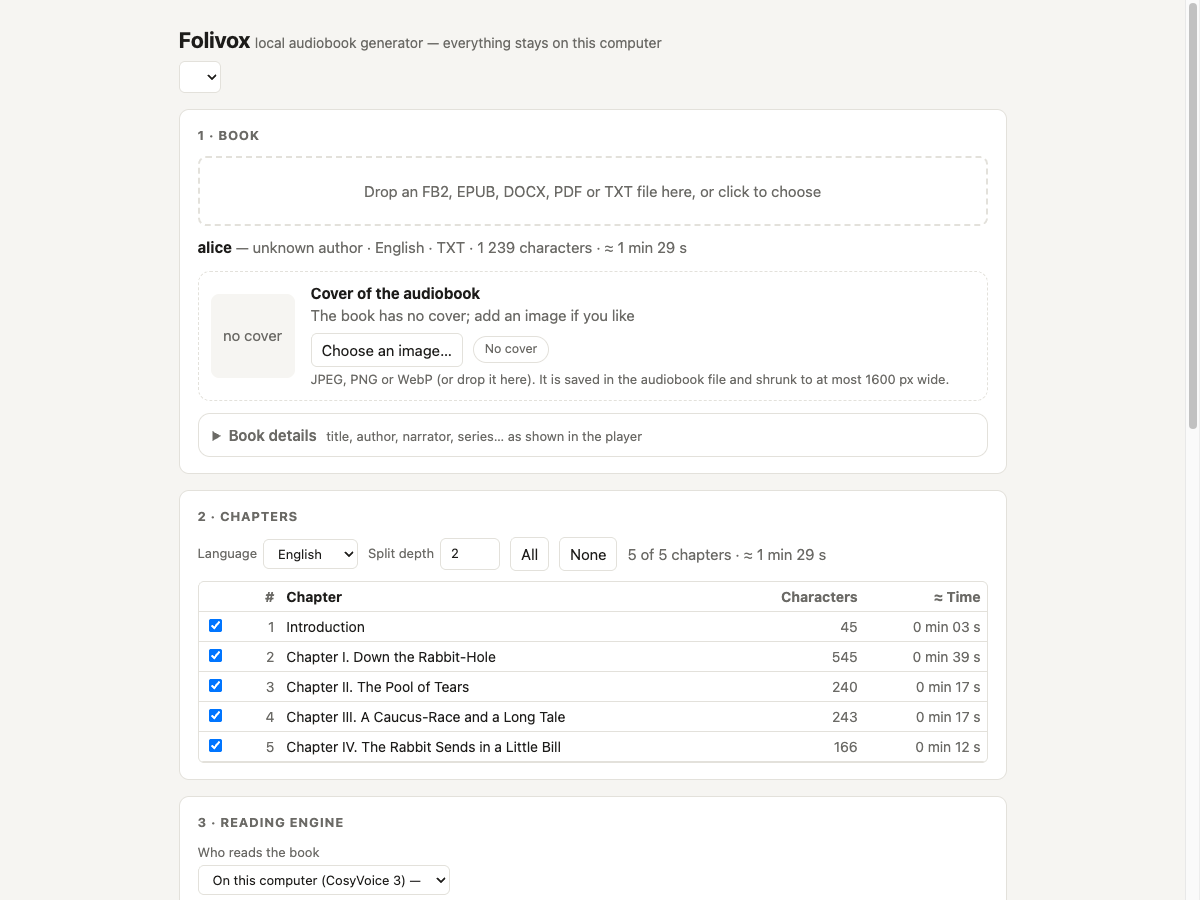
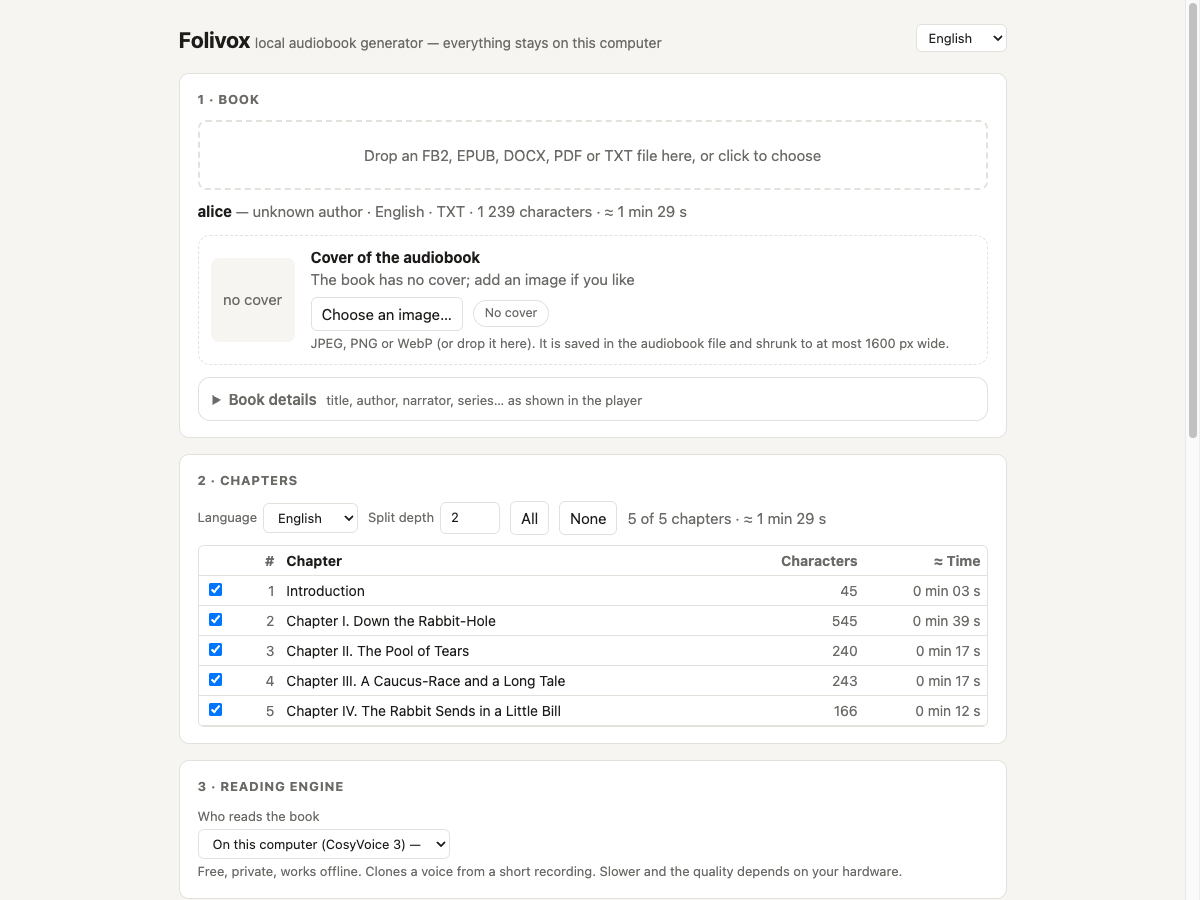
README: lead with engines and voice choices, studio languages, voice design per book, acknowledgements; refreshed screenshots

diff --git a/README.md b/README.md
@@ -2,7 +2,10 @@
 
 # Folivox
 
-**Turn any e-book into a chaptered audiobook, read in your own voice. Free, offline, on your computer.**
+**The audiobook workhorse. A powerful tool in a simple interface, free.**
+
+Drop in a book, pick a voice, press Render. Get a chaptered audiobook read in any voice you like,
+on your own computer.
 
 FB2 · EPUB · DOCX · PDF · TXT &nbsp;→&nbsp; `.m4b` / `.mp3` with chapters, cover and metadata
 
@@ -17,13 +20,17 @@ FB2 · EPUB · DOCX · PDF · TXT &nbsp;→&nbsp; `.m4b` / `.mp3` with chapters,
 
 ## What is this
 
-Folivox reads a whole book aloud with [CosyVoice 3](https://github.com/FunAudioLLM/CosyVoice), an open
-model that clones a voice from a 6–15 second sample. It runs on your machine: no account, no subscription,
-no per-character fee, and with the local engine nothing leaves your computer. It is built for **long books**
-(many hours of audio): every fragment is saved, a crash or a power cut loses nothing, and editing the text
-re-reads only what changed.
+Folivox turns a whole book, many hours of it, into a finished audiobook. Out of the box it reads with
+[CosyVoice 3](https://github.com/FunAudioLLM/CosyVoice), an open model that clones a voice from a short sample,
+running entirely on your machine: no account, no subscription, no per-character fee, nothing uploaded.
 
-You can drive it from a **web studio** (`folivox ui`) or from the **command line**.
+It is one application with many engines behind it. The book can be read by the free local model or by
+ElevenLabs, OpenAI, Gemini or Cartesia with your own API key. A narrator voice can come from the bundled
+catalog, from your own recording, or be designed for this particular book. Everything around the voice,
+from text clean-up to quality control, chapters and a crash-safe journal, is the same whichever engine you choose.
+
+Use the **web studio** (`folivox ui`, in 9 interface languages) or the **command line**: same pipeline, same
+results.
 
 ## Quick start
 
@@ -31,12 +38,40 @@ You can drive it from a **web studio** (`folivox ui`) or from the **command line
 git clone <this repository> && cd folivox
 ./scripts/install.sh            # Windows: powershell -ExecutionPolicy Bypass -File scripts\install.ps1
 folivox ui                      # the studio opens in your browser
-folivox render book.fb2         # or: no browser, the audiobook appears next to the book
 ```
 
-The installer sets up `uv`, ffmpeg, the right PyTorch build and Folivox, then runs `folivox setup`, which
-checks your machine and downloads the models once (about 6 GB for the voice and 1.6 GB for the quality
-check). Details, manual install and troubleshooting: [docs/install.md](docs/install.md).
+One script installs everything: `uv`, ffmpeg, the PyTorch build that fits your hardware (NVIDIA GPU, Apple
+Silicon or CPU) and Folivox. Then `folivox setup` checks your computer and downloads the models by itself
+(about 6 GB for the voice and 1.6 GB for the quality check), with progress and resume. After that it is a few
+clicks: drop a book, choose a voice, press **Render audiobook**. Prefer the terminal? `folivox render book.fb2`.
+
+Details, manual install and troubleshooting: [docs/install.md](docs/install.md).
+
+## Choose how your book is read
+
+| | Free, on your computer | With an online engine (your API key) |
+|---|---|---|
+| **Who reads** | CosyVoice 3, local and offline | ElevenLabs, OpenAI, Gemini or Cartesia |
+| **Voice** | Clones any sample: bundled, recorded, uploaded or generated | The provider's voices, or a voice designed or localised for the book |
+| **Cost** | Free | Estimated before you start, confirmed by you, with an optional spending cap |
+| **Your text** | Never leaves your computer | Sent to that provider |
+
+Paste a key for any of the four providers in the studio (it is stored in your OS keychain) and they appear
+next to the local engine. With the model set to `auto`, Folivox asks the provider which models your key can
+use and takes the newest one, so new releases are picked up without updating Folivox.
+
+## A voice for every book
+
+- **Ready to use:** a bundled public-domain voice (`russlib`, from a LibriVox recording) for a first render.
+- **Your own voice:** record it with the microphone right in the studio or upload a 6–15 second sample;
+  optional gentle noise reduction.
+- **Designed for this book:** describe the narrator, or press **Suggest from my book** and a text LLM writes
+  the description from the book itself. An online provider (or the local Qwen3 voice-design model) reads a short
+  text, Whisper ranks the takes, and you keep the best one as a cloning prompt for the free local engine.
+- **Your library:** every voice you add is kept on your computer, with its source and licence, searchable by
+  name and language; star your favourites.
+
+Full guide: [docs/voices.md](docs/voices.md).
 
 ## Features
 
@@ -51,39 +86,39 @@ epigraphs are kept; PDF headers, footers and page numbers are removed and hyphen
 </td>
 <td width="33%" valign="top">
 
-**9 languages**<br>
-Russian, English, German, French, Spanish, Italian, Chinese, Japanese, Korean. The language comes from the
-book's metadata or is detected from the text; `--lang` overrides it.
+**9 book languages**<br>
+Russian, English, German, French, Spanish, Italian, Chinese, Japanese, Korean. Detected from the book's
+metadata or its text; `--lang` overrides it.
 
 </td>
 <td width="33%" valign="top">
 
-**Your own voice**<br>
-Zero-shot cloning from a short clean recording (upload or record in the studio). Optional gentle noise
-reduction. A bundled public-domain Russian voice works out of the box.
+**Text prepared for speech**<br>
+Numbers, dates, years, centuries, units and abbreviations read in full (with case and gender agreement in
+Russian); sentences split and packed into fragments; dialogue pauses.
 
 </td>
 </tr>
 <tr>
 <td valign="top">
 
-**Quality control**<br>
-Every fragment is re-transcribed with Whisper. If it does not match the text, it is re-synthesised and the
-best take is kept (`--takes`, default 3).
+**Stress and `ё`**<br>
+For Russian, `ё` is restored automatically with ruaccent, and full stress marks are available
+(`--stress all`, experimental).
 
 </td>
 <td valign="top">
 
-**Text normalisation**<br>
-Numbers, dates, years, centuries, units and abbreviations spoken in full (with case and gender agreement
-for Russian), `ё` restored, optional stress marks, natural pauses in dialogue.
+**Quality control**<br>
+Every fragment is listened back with Whisper. If it does not match the text it is read again, and the best
+take is kept (`--takes`, default 3).
 
 </td>
 <td valign="top">
 
 **Real audiobook files**<br>
-One `.m4b` with chapter markers, cover and metadata (title, author, narrator, year, description, series as
-the Grouping tag), or one `.mp3` per chapter. Loudness-normalised (−18 LUFS).
+One `.m4b` with chapter markers, cover and metadata (title, author, narrator, year, description, series), or
+one `.mp3` per chapter. Loudness-normalised (−18 LUFS).
 
 </td>
 </tr>
@@ -91,46 +126,45 @@ the Grouping tag), or one `.mp3` per chapter. Loudness-normalised (−18 LUFS).
 <td valign="top">
 
 **Built for 10-hour books**<br>
-Journal of finished fragments; stop and run again to continue. Edit the text and only changed fragments are
-redone. Damaged files after a crash are detected and redone; the old result is never replaced until the new
-one is fully written.
+Every finished fragment is journalled. Stop, crash or lose power, then run again and it continues. Edit the
+text and only changed fragments are redone. The previous file is never replaced until the new one is complete.
 
 </td>
 <td valign="top">
 
-**Web studio**<br>
-Book, chapters, voice gallery with audition, preview, live progress per chapter and fragment, remaining-time
-forecast, playback of finished chapters, stop and resume. Local only, token-protected.
+**Studio with live progress**<br>
+Chapter lanes, the fragment being read, elapsed and remaining time, retakes, playback of finished chapters,
+a quick preview before the long run. Local only, token-protected.
 
 </td>
 <td valign="top">
 
-**Online engines, optional**<br>
-ElevenLabs, OpenAI, Gemini and Cartesia can read a book or generate a voice sample. Cost estimate first,
-explicit confirmation, a spending cap (`--max-cost`) that stops cleanly and resumes.
+**Runs on what you have**<br>
+Apple Silicon (GPU via Metal, Whisper via MLX), NVIDIA CUDA, or a plain CPU. If the GPU fails, the CPU takes
+over. `folivox doctor` reviews your hardware and gives advice.
 
 </td>
 </tr>
 <tr>
 <td valign="top">
 
-**Pluggable**<br>
-Speech synthesis, recognition, voice generation and the text LLM are small provider interfaces; swap them
-by name or register your own via entry points.
+**Interface in 9 languages**<br>
+The studio speaks English, Russian, German, French, Spanish, Italian, Chinese, Japanese and Korean (menu in
+the header).
 
 </td>
 <td valign="top">
 
-**Hardware aware**<br>
-Apple Silicon (hybrid CPU + GPU), NVIDIA CUDA or plain CPU. `folivox doctor` checks ffmpeg, models, disk and
-your hardware and gives advice; a GPU failure falls back to the CPU.
+**Safe spending**<br>
+Online runs show a cost estimate first, need your confirmation and stop cleanly at `--max-cost`. Already
+rendered fragments are never paid for twice.
 
 </td>
 <td valign="top">
 
-**Sturdy**<br>
-Early checks for ffmpeg and disk space, resumable model downloads, retries with backoff, a pause through
-network outages, a timeout for a stuck fragment, a rotating log and a redacted support bundle.
+**Sturdy and open**<br>
+Early ffmpeg and disk checks, resumable downloads, retries with backoff, waiting out network outages, a
+redacted support bundle. Pluggable providers via entry points.
 
 </td>
 </tr>
@@ -140,26 +174,26 @@ network outages, a timeout for a stuck fragment, a rotating log and a redacted s
 
 <table>
 <tr>
-<td width="50%"><img src="docs/img/studio-book.png" alt="A loaded book with its chapters and estimated length"><br><sub>A book loaded: chapters, language, cover and metadata, estimated length.</sub></td>
-<td width="50%"><img src="docs/img/studio-voices.png" alt="Reading engine and voice gallery"><br><sub>Reading engine and voice gallery; add your own voice or generate one.</sub></td>
+<td width="50%"><img src="docs/img/studio-book.png" alt="A loaded book with its chapters and estimated length"><br><sub>Drop a book: chapters, language, cover, details and estimated length.</sub></td>
+<td width="50%"><img src="docs/img/studio-voices.png" alt="Reading engine and voice gallery"><br><sub>Choose the engine and a voice: audition, favourites, record your own or generate one.</sub></td>
 </tr>
 <tr>
-<td colspan="2"><img src="docs/img/studio-done.png" alt="The audiobook is ready card"><br><sub>Done: the card shows the output file, audio length and render time.</sub></td>
+<td width="50%"><img src="docs/img/studio-done.png" alt="The audiobook is ready card"><br><sub>Done: the file, its length and how long it took.</sub></td>
+<td width="50%"><img src="docs/img/studio-ru.png" alt="The studio in Russian"><br><sub>The same studio in Russian, one of nine interface languages.</sub></td>
 </tr>
 </table>
 
-<sub>The screenshots show the studio on a short public-domain text (<i>Alice's Adventures in Wonderland</i>).
-To keep the capture quick and independent of the model weights, the render in them was simulated with the
-same events the real pipeline emits (the test suite's fake render approach); no audio was produced.</sub>
+<sub>Demo render on a public-domain text (<i>Alice's Adventures in Wonderland</i>); timings are illustrative.</sub>
 
 ## Why Folivox
 
-- **Free and private.** The default engine is a local open model. No text is uploaded, there is no usage bill.
-- **Your voice, any book.** A short sample is enough; the same voice stays consistent through the whole book.
-- **Made for long audiobooks, not for clips.** Resumable, crash-safe, with a time forecast and a quality
-  check that retakes bad fragments for you.
-- **Honest about what leaves your computer.** Online engines are opt-in, labelled, estimated and capped.
-- **Open and replaceable.** Apache-2.0, small provider interfaces, no lock-in to one model.
+- **Free for real.** The local engine has no limits and no bill; online engines are an option, not a requirement.
+- **A workhorse for long books.** Resumable, crash-safe, quality-checked, with a time forecast: start a
+  ten-hour book and walk away.
+- **Simple outside, deep inside.** A few clicks in the studio; every option is still there in the CLI.
+- **Any voice, consistent to the last page.** Yours, a bundled one, or one designed for the book.
+- **Honest about what leaves your computer.** Online use is opt-in, labelled, estimated and capped.
+- **Open and replaceable.** Apache-2.0 and small provider interfaces: when a better model appears, plug it in.
 
 ## Usage in short
 
@@ -168,29 +202,29 @@ folivox inspect book.epub                     # chapter tree, size, estimated du
 folivox book.fb2 -v me.wav -o book.m4b        # render the whole book with your voice
 folivox book.fb2 -c 1-2 --preview 600         # a quick test: chapters 1–2, first 600 characters each
 folivox book.pdf --mp3 -o out/                # one mp3 per chapter
-folivox voices                                # bundled and your own voices
+folivox render book.epub --tts openai --tts-voice coral --max-cost 5   # an online engine with a cap
+folivox voices                                # your voice library
 folivox doctor --bundle                       # check the setup / write a redacted support bundle
 ```
 
 `folivox --help`, `folivox render --help` and `folivox help <topic>` (`voices`, `providers`, `config`,
-`languages`, `resuming`, `quality`) explain every option. The full list: [docs/cli.md](docs/cli.md).
+`languages`, `resuming`, `quality`) explain every option. Full list: [docs/cli.md](docs/cli.md).
 
 ## FAQ
 
-**What hardware do I need?** Python 3.10–3.12, ffmpeg and room for the models (about 7.6 GB). macOS on Apple
-Silicon, Windows or Linux with an NVIDIA GPU (CUDA) or just a CPU. The CPU works but is slower; `folivox setup`
-and `folivox doctor` look at your machine and tell you what to expect.
+**What hardware do I need?** Python 3.10–3.12, ffmpeg and about 7.6 GB for the models. A Mac with Apple
+Silicon, or Windows/Linux with an NVIDIA GPU or just a CPU. The CPU works but is slower; `folivox setup` and
+`folivox doctor` look at your machine and tell you what to expect.
 
-**How long does a book take?** It depends on your hardware, so we do not quote a number. `folivox inspect`
-and the studio show the length of the audio before you start; after the first render on a machine the studio
-estimates the time from your own measured speed, and shows the remaining time while it works. Try
-`--preview` first to hear a voice on a few hundred characters.
+**How long does a book take?** It depends on your hardware, so we do not quote a number. The studio shows the
+audio length before you start, estimates the render time from your own previous runs, and shows the remaining
+time while it works. Try a preview first to hear the voice on a few hundred characters.
 
 **Is my book uploaded anywhere?** Not with the local engine (the default): everything runs on your computer
-and the studio listens on `127.0.0.1` only. Downloading the model weights is the only network use. The online
-engines (ElevenLabs, OpenAI, Gemini, Cartesia), online voice generation and an OpenAI-compatible recognition
-or LLM provider **do send text (or audio) to that provider and may cost money**; Folivox says so and asks
-for confirmation. API keys come from environment variables or your OS keychain, never from a config file.
+and the studio listens on `127.0.0.1` only; the network is used to download the models. Online engines,
+online voice generation and OpenAI-compatible recognition or LLM providers **send text (or audio) to that
+provider and may cost money**; Folivox says so and asks first. Keys live in environment variables or your OS
+keychain, never in a config file.
 
 **Can I stop and continue?** Yes, at any time, even after a crash or a power cut: run the same command (or
 press Render) again.
@@ -198,19 +232,17 @@ press Render) again.
 **Whose voice may I clone?** Your own, or one you have explicit permission to use. Folivox ships no celebrity
 or third-party voices and has no feature for imitating real people.
 
-**Which voices come with it?** One public-domain Russian voice (`russlib`, LibriVox). For other languages,
-add your own sample or generate one; see [docs/voices.md](docs/voices.md).
-
 ## Documentation
 
 | Page | What is in it |
 |---|---|
 | [docs/install.md](docs/install.md) | One-command install, starting the studio, update and removal |
 | [docs/cli.md](docs/cli.md) | All `folivox render` options and examples |
-| [docs/voices.md](docs/voices.md) | Voice catalog, your own voices, the voice sample, designing and generating voices |
+| [docs/voices.md](docs/voices.md) | Voice library, your own voice, the voice sample, designing and generating voices |
 | [docs/cloud-engines.md](docs/cloud-engines.md) | Online reading engines: prices, limits, terms, spending cap |
 | [docs/providers.md](docs/providers.md) | Pluggable providers and `config.toml` |
 | [docs/ui.md](docs/ui.md) | The web studio: design, screens and API |
+| [docs/ui-languages.md](docs/ui-languages.md) | Interface languages and translations |
 | [docs/how-it-works.md](docs/how-it-works.md) | The pipeline in five steps |
 | [docs/support.md](docs/support.md) | Resuming, retries, `folivox doctor` and the support bundle |
 | [CONTRIBUTING.md](CONTRIBUTING.md) | Development setup, adding a language or a provider |
@@ -223,9 +255,29 @@ uv run pytest -q
 uv run ruff check src tests
 ```
 
-The CI workflow (`.github/workflows/ci.yml`) runs lint and the unit tests (readers, text processing,
-journal, assembly) on macOS, Windows and Linux without model inference. Contributions are welcome; see
-[CONTRIBUTING.md](CONTRIBUTING.md).
+The CI workflow (`.github/workflows/ci.yml`) runs lint and the unit tests on macOS, Windows and Linux without
+model inference. Contributions are welcome; see [CONTRIBUTING.md](CONTRIBUTING.md).
+
+## Acknowledgements
+
+Folivox stands on the work of many people who shared it openly. Thank you:
+
+- [CosyVoice](https://github.com/FunAudioLLM/CosyVoice) by the FunAudioLLM team (Alibaba Tongyi Lab): the
+  voice-cloning model and inference code at the heart of Folivox.
+- [Matcha-TTS](https://github.com/shivammehta25/Matcha-TTS) and [Whisper](https://github.com/openai/whisper)
+  (OpenAI), parts of which are vendored; [faster-whisper](https://github.com/SYSTRAN/faster-whisper) and
+  [mlx-whisper](https://github.com/ml-explore/mlx-examples) for the quality check.
+- [LibriVox](https://librivox.org/) and its volunteer readers, who record public-domain books and give the
+  recordings to the public domain; the bundled voice comes from a LibriVox recording.
+- [Qwen3-TTS](https://github.com/QwenLM) for local voice design.
+- [ruaccent](https://github.com/Den4ikAI/ruaccent) (stress and `ё`), [razdel](https://github.com/natasha/razdel)
+  (Natasha project, sentence splitting) and [num2words](https://github.com/savoirfairelinux/num2words).
+- [FFmpeg](https://ffmpeg.org/), [PyTorch](https://pytorch.org/), [Hugging Face](https://huggingface.co/),
+  [PyMuPDF](https://pymupdf.readthedocs.io/), [EbookLib](https://github.com/aerkalov/ebooklib),
+  [python-docx](https://github.com/python-openxml/python-docx), [noisereduce](https://github.com/timsainb/noisereduce),
+  [Starlette](https://www.starlette.io/), [Typer](https://typer.tiangolo.com/), [Rich](https://github.com/Textualize/rich)
+  and [uv](https://github.com/astral-sh/uv).
+- [Project Gutenberg](https://www.gutenberg.org/) for the public-domain text in the screenshots.
 
 ## License and status
 
